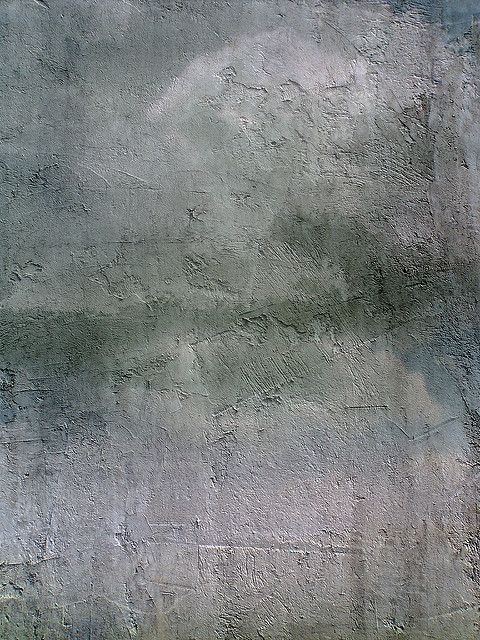
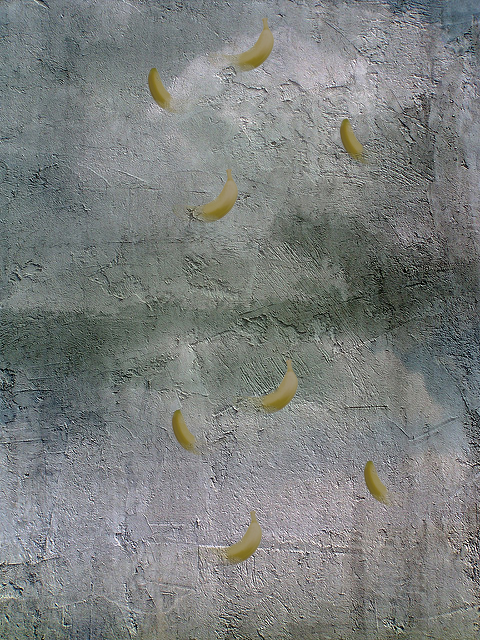
Uh, Nyancat and bananas.

diff --git a/js/main.js b/js/main.js
@@ -1,4 +1,3 @@
-
 (function () {
     const GRAVITY = -9.8;
     const DEATH_Y = 20;
@@ -6,6 +5,9 @@
     const DEATH_ROT = 0.174533;
     // DEATH ROT DEATH ROT! To the tune of Dethklok, of course.
     const RATE_MULTIPLIER = 300;
+
+    const NYAN_DELAY = 10000;
+    const NYAN_SPEED = 20;
 
     const TIME_SPAN = 90;
 
@@ -25,6 +27,8 @@
     let shipImage = new Image();
     let moonImage = new Image();
     let flameImage = new Image();
+    let nyanImage = new Image();
+
     let avgHeight = 0, maxHeight = 0, minHeight = 99999999;
     let pat;
     const padded = "00";
@@ -143,7 +147,7 @@
 
         for (var i = 0; i < TIME_SPAN; i++) {
             if (!fetchRate(date, i)) {
-                await sleep(200)
+            await sleep(200)
                 ;
             }
             canvas.width = canvas.width;
@@ -157,7 +161,8 @@
             canvas.width = canvas.width;
             show("Loading " + (TIME_SPAN - count(days)) + " days worth of currency data (slow just this once)...", 24);
 
-            await sleep(100);
+        await sleep(100)
+            ;
         }
         console.log(days);
         avgHeight = 0;
@@ -170,6 +175,24 @@
 
         loadShip();
     }
+
+    let nyan = {
+        inplay: false
+    };
+
+    let makeNyan = function () {
+        if (nyan.inplay) {
+            return;
+        }
+
+        nyan.inplay = true;
+        nyan.x = -nyanImage.width;
+        nyan.y = Math.random() * floor;
+        console.log(nyan);
+    };
+
+    makeNyan();
+    //setTimeout(makeNyan, Math.random() * NYAN_DELAY);
 
     let ship = {
         fuel: 500,
@@ -260,8 +283,9 @@
         ctx.fillStyle = pat;
         ctx.beginPath();
         ctx.moveTo(0, floorHeight(0));
-        for (let x = 0; x < canvas.width; x++) {
-            ctx.lineTo(x, floorHeight(x));
+        for (let x = 1; x < TIME_SPAN; x++) {
+            ctx.lineTo((x-1) * TIME_WIDTH, floorHeight(x * TIME_WIDTH));
+            ctx.lineTo(x * TIME_WIDTH, floorHeight(x * TIME_WIDTH));
         }
         ctx.lineTo(canvas.width, canvas.height);
         ctx.lineTo(0, canvas.height);
@@ -287,6 +311,24 @@
         }
     };
 
+    var drawNyan = function (diff) {
+        if (!nyan.inplay) {
+            return;
+        }
+
+        nyan.x += NYAN_SPEED * diff / 1000;
+        nyan.showY = nyan.y + Math.sin(nyan.x);
+
+        if (nyan.x > canvas.width) {
+            nyan.inplay = false;
+            setTimeout(makeNyan, NYAN_DELAY * Math.random());
+        } else {
+            ctx.drawImage(nyanImage, nyan.x, nyan.showY);
+            console.log(nyan);
+
+        }
+    };
+
     function loop() {
         lastTime = thisTime || new Date().getTime();
         thisTime = new Date().getTime();
@@ -297,7 +339,10 @@
 
         drawStars(diff);
 
+        drawNyan(diff);
+
         drawFloor();
+
 
         drawShip();
         if (help.upPressed || screenTouch) {
@@ -364,10 +409,10 @@
     };
 
 
-    window.addEventListener('touchstart', function() {
+    window.addEventListener('touchstart', function () {
         screenTouch = true;
     });
-    window.addEventListener('touchend', function() {
+    window.addEventListener('touchend', function () {
         screenTouch = false;
     });
 
@@ -379,18 +424,21 @@
         // beta is the front-to-back tilt in degrees, where front is positive
         var tiltFB = eventData.beta;
 
-        function toRadians (angle) {
+        function toRadians(angle) {
             return angle * (Math.PI / 180);
         }
-        if(window.innerHeight > window.innerWidth){
+
+        if (window.innerHeight > window.innerWidth) {
             ship.rotate = toRadians(tiltLR);
         } else {
-            ship.rotate = toRadians(tiltFB)/2;
+            ship.rotate = toRadians(tiltFB) / 2;
         }
     }
 
     flameImage.src = "img/flames.png";
     moonImage.src = "img/moon.jpg";
+    nyanImage.src = "img/nyan.png";
+
     moonImage.onload = function () {
         pat = ctx.createPattern(moonImage, "repeat");
         ctx.fillStyle = pat;
